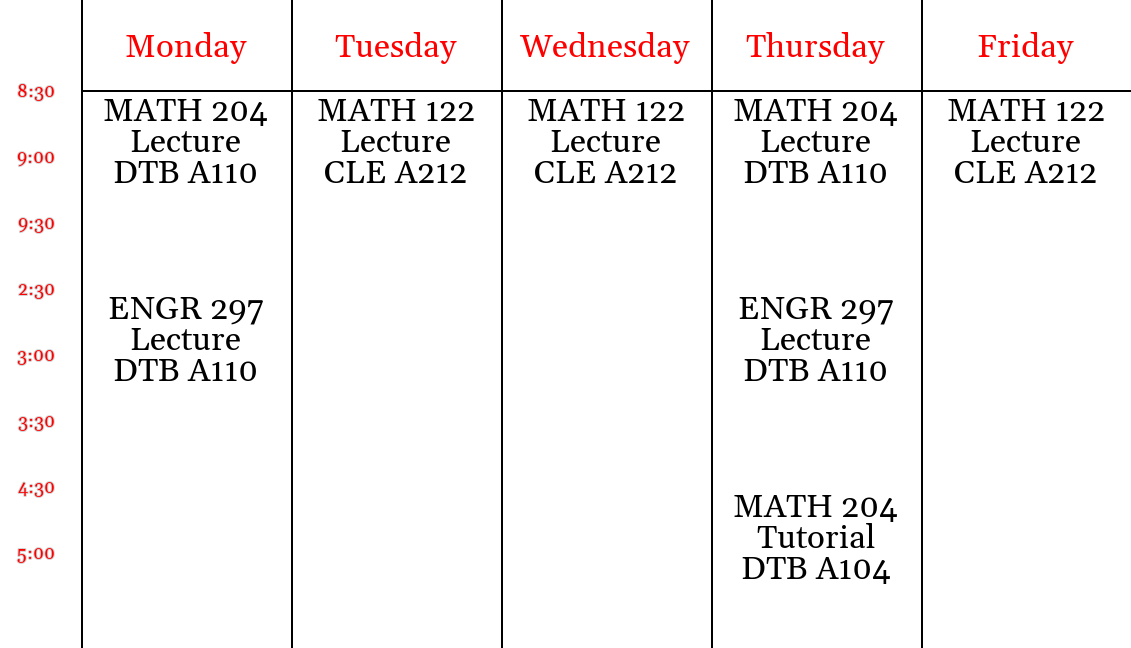
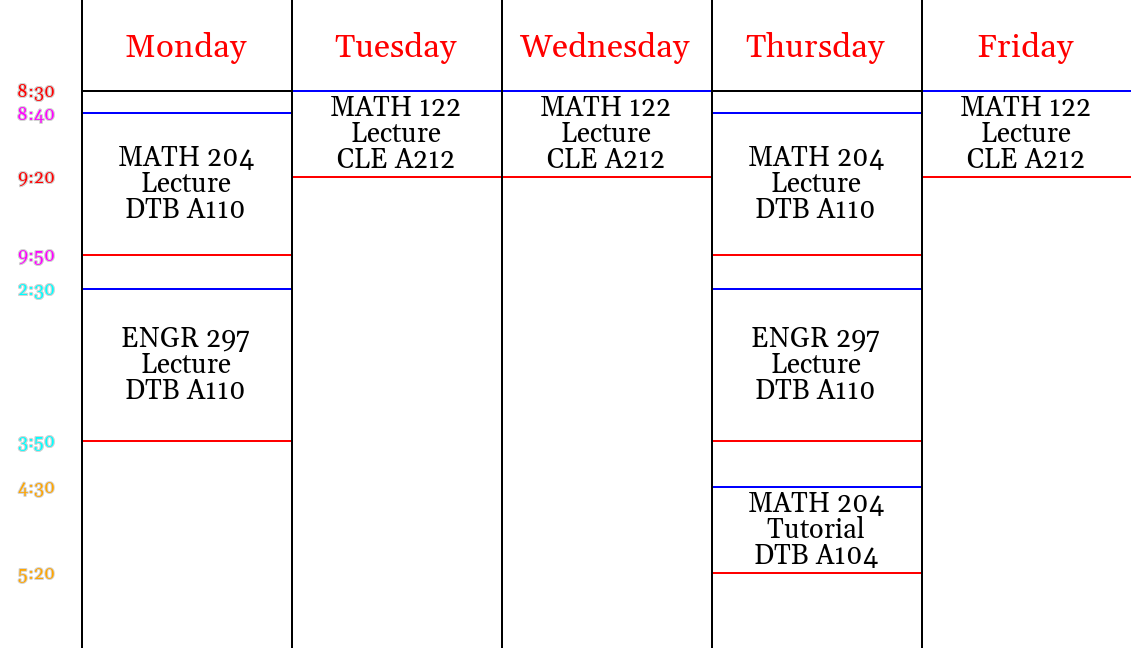
events finally show up in the right spots

diff --git a/scheduleGenerator.py b/scheduleGenerator.py
@@ -19,12 +19,11 @@ dayOrdering = {
     "Saturday": 5,
     "Sunday": 6,
 }
-eventColors = ["red", "blue", "green", "yellow",
-               "magenta", "cyan", "orange", "pink"]
+eventColors = ["red", "blue", "green", "magenta", "cyan", "orange", "pink"]
 shuffle(eventColors)
 
 dayFont = ImageFont.truetype(font="Gelasio-Regular.ttf", size=scale * 11)
-cellFont = ImageFont.truetype(font="Gelasio-Regular.ttf", size=scale * 11)
+cellFont = ImageFont.truetype(font="Gelasio-Regular.ttf", size=scale * 9)
 timeFont = ImageFont.truetype(font="Gelasio-Regular.ttf", size=scale * 6)
 
 
@@ -138,12 +137,16 @@ class Schedule(object):
         )
 
     def _get_y_pos(self, eventTime):
-        y = dateCellHeight
-        for i in range(len(self.scheduledTimes)):
-            if eventTime > self.scheduledTimes[i]:
+        i = 0
+        while self.scheduledTimes[i].time <= eventTime.time:
+            i += 1
+
+            if (i > len(self.scheduledTimes)):
                 break
 
-        y += segmentHeight * i
+        i -= 1
+
+        y = dateCellHeight + segmentHeight * i
 
         # The preceding time, rounded to 30 minutes
         timeSegmentBefore = (eventTime.time // 30) * 30
@@ -157,7 +160,9 @@ class Schedule(object):
             for day in ev.days:
                 x = gutterWidth + columnWidth * (self.days.index(day) + 0.5)
                 startY = self._get_y_pos(ev.startTime)
-                endY = self._get_y_pos(ev.endTime)
+                endY = startY + segmentHeight * \
+                    ((ev.endTime.time - ev.startTime.time) // 30) + \
+                    ((ev.endTime.time - ev.startTime.time) % 30)
                 # Draw the event
                 #  Get the event's position
                 self._draw_event(ev, (x, (startY + endY) / 2))
@@ -173,12 +178,6 @@ class Schedule(object):
                     [(x-columnWidth/2, endY),
                         (x+columnWidth/2, endY)],
                     fill="red", width=2)
-
-        for i in range(len(self.scheduledTimes)):
-            self._draw_time(
-                str(self.scheduledTimes[i]), dateCellHeight +
-                i * segmentHeight, "red"
-            )
 
         # Draw vertical lines between the days
         for i in range(len(self.days)):
@@ -231,7 +230,7 @@ class Time(object):
         """
         Builds a Time object from the format "hh: mm".
         """
-        hour, minute = timeStr.split(": ")
+        hour, minute = timeStr.split(":")
         return cls(int(hour) * 60 + int(minute))
 
     def to_hour_min(self):
